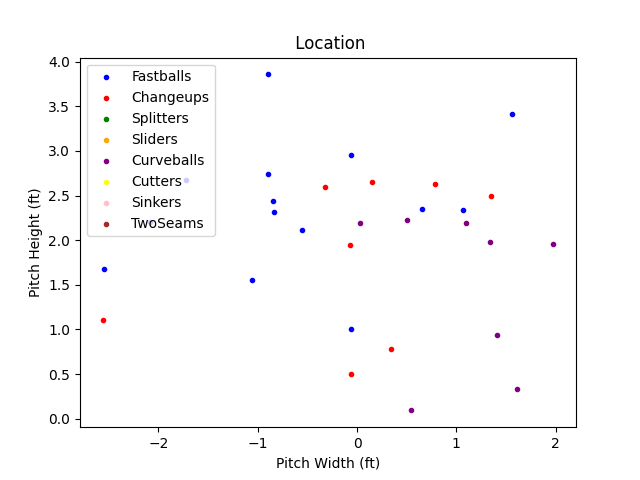
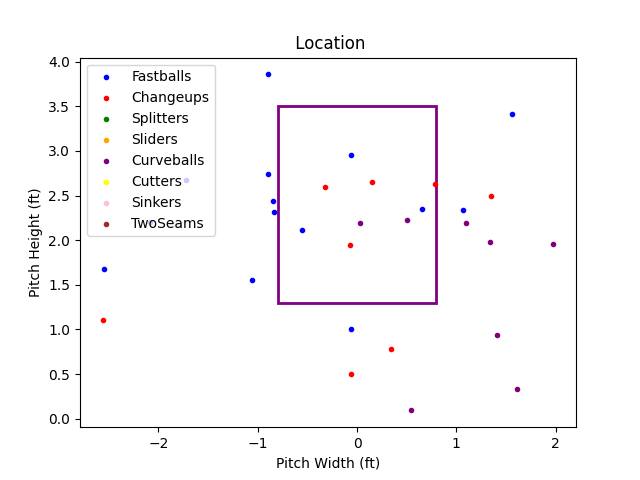
Plots with Strikezones

Changed region(s): [[0.4062, 0.2188, 0.6875, 0.6562]]

diff --git a/filereader.py b/filereader.py
@@ -3,7 +3,7 @@ import csv
 from pitcher import Pitcher
 from pitch import Pitch
 import numpy as np
-from matplotlib.patches import Rectangle
+import matplotlib.patches as mpatches
 
 def readPitch(arr):
   pitch = Pitch(arr[1], arr[19], arr[28], arr[21], arr[31], arr[38], arr[39], arr[33], arr[34], arr[35], arr[35], arr[40], arr[41])
@@ -93,8 +93,9 @@ def pltPitches(Player):
       elif pitch.ptype == "Cutter":
         xCutt.append(float(pitch.plside))
         yCutt.append(float(pitch.plheight))
-      
 
+  rect=mpatches.Rectangle((-.8,1.3),1.6,2.2, fill = False, color = "purple", linewidth = 2)    
+  plt.gca().add_patch(rect)
   plt.scatter(xFast, yFast, label= "Fastballs", c= "blue", marker= ".")
   plt.scatter(xChup, yChup, label= "Changeups", c= "red", marker= ".")
   plt.scatter(xSplit, ySplit, label= "Splitters", c= "green", marker= ".")
@@ -112,7 +113,6 @@ def pltPitches(Player):
   plt.title(" Location")
 
   plt.legend()
-
   plt.show()
   plt.savefig((str(Player.name) + 'Pitches.png'))
   plt.clf()
